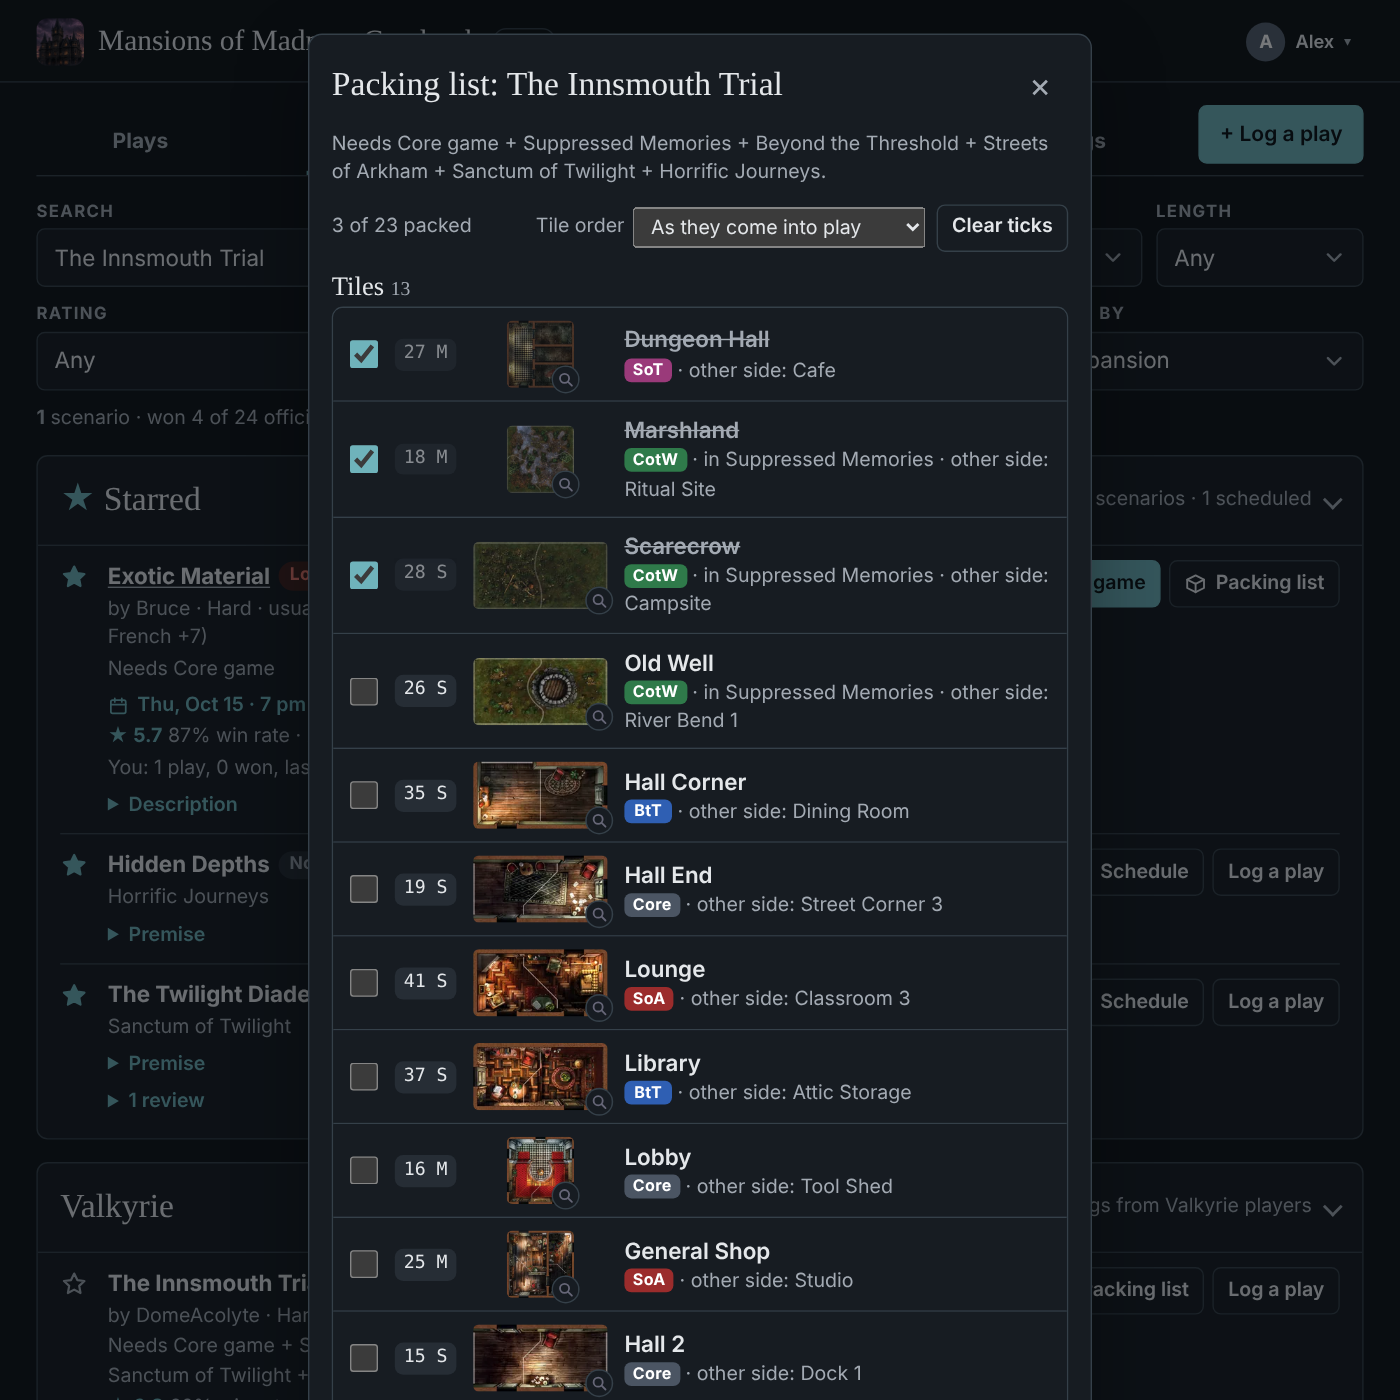
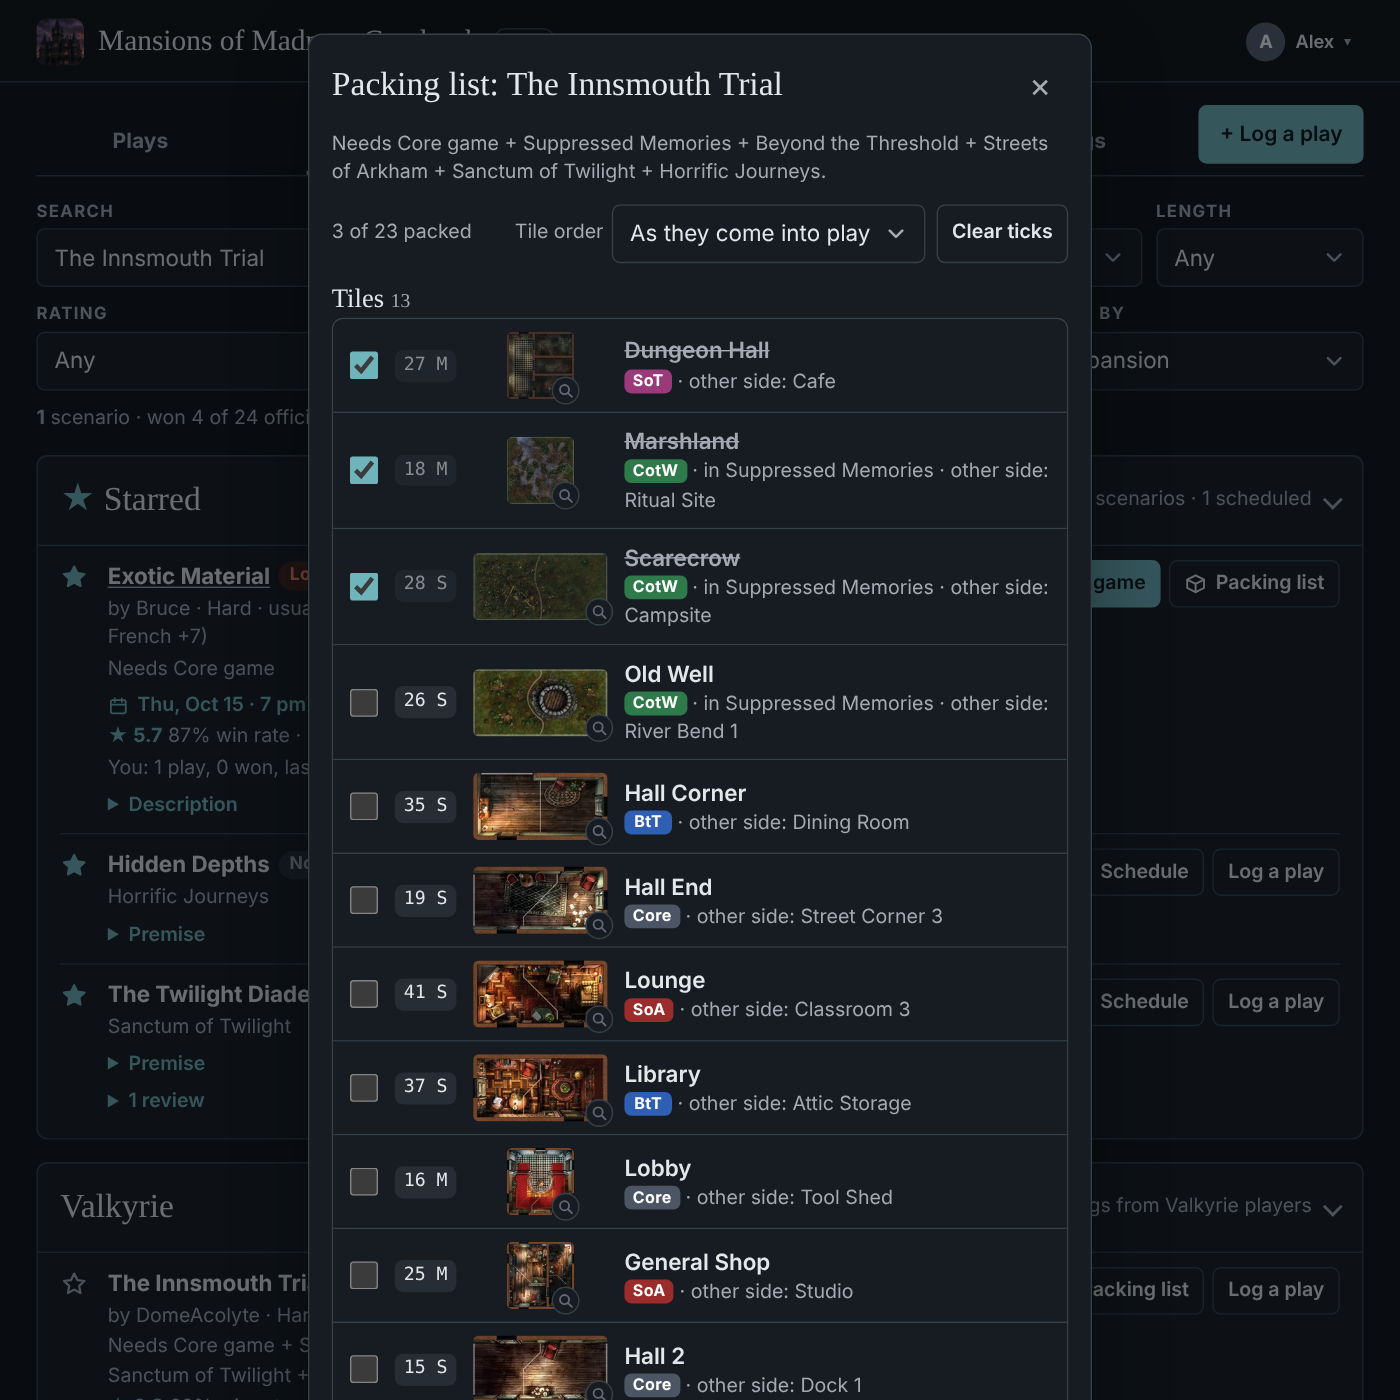
Packing list: Tile order uses the site's own dropdown (v68)
The Tile order choice is now a regular site dropdown (select.f): same box,
chevron and menu as every other dropdown on a computer, and the phone's own
picker on a phone. Clear ticks is the same height beside it. README
screenshots updated; the UI test opens the menu and picks from it.

Claude-Session: https://claude.ai/code/session_019kh66ouXYwNDK6aTZ456xr

diff --git a/js/app.js b/js/app.js
@@ -411,7 +411,7 @@ function packDialog(id){
     '<p class="note">'+t('Needs {boxes}.',{boxes:p.need.map(function(b){return esc(boxName(b));}).join(' + ')+(p.other?' + '+t('fan-made pack {name}',{name:esc(p.other.join(', '))}):'')})+
     (miss.length?' <span class="missing">'+t('Not ticked in your collection: {boxes}.',{boxes:esc(miss.map(boxName).join(', '))})+'</span>':'')+'</p>'+
     '<div class="row pk-bar"><span class="note pk-count"></span>'+
-      (numbered?'<label class="pk-order"><span class="note">'+t('Tile order')+'</span><select data-pk="order"><option value="play"'+(mode==='play'?' selected':'')+'>'+t('As they come into play')+'</option><option value="num"'+(mode==='num'?' selected':'')+'>'+t('By tile number')+'</option></select></label>':'')+
+      (numbered?'<label class="pk-order"><span class="note">'+t('Tile order')+'</span><select class="f" data-pk="order"><option value="play"'+(mode==='play'?' selected':'')+'>'+t('As they come into play')+'</option><option value="num"'+(mode==='num'?' selected':'')+'>'+t('By tile number')+'</option></select></label>':'')+
       '<button class="btn sm ghost" type="button" data-pk="clear">'+t('Clear ticks')+'</button></div>'+
     '<div class="pk-tiles">'+tileLists()+'</div>'+
     (mons.length?'<h3 class="pk-h">'+t('Monster figures')+' <span class="note">'+mons.length+'</span></h3><ul class="pk-list">'+mons.join('')+'</ul>':'')+

diff --git a/test/ui.test.js b/test/ui.test.js
@@ -177,7 +177,8 @@ const gviz={status:'ok',table:{cols:rows[0].map(l=>({label:l})),rows:rows.slice(
   await p.locator('.pk input').first().check();await p.locator('.pk input').nth(1).check();
   assert.ok(/^2 of /.test(await p.textContent('.pk-count')),'ticks counted');
   // tile order: by number puts the Tiles Index order (small before medium); ticks survive the switch
-  await p.selectOption('[data-pk=order]','num');
+  await p.click('[data-pk=order]');assert.ok(await p.locator('.dd .dd-opt').count()===2,'tile order uses the site dropdown');
+  await p.locator('.dd .dd-opt').nth(1).click();assert.strictEqual(await p.$eval('[data-pk=order]',s=>s.value),'num','picked from the dropdown');
   const nums=await p.$$eval('.pk-tiles .pk-idx',l=>l.map(x=>x.textContent.replace(/\s+/g,'')));
   const key=x=>{const m=/^(\d+)([SML])$/.exec(x);return m?'SML'.indexOf(m[2])*1000+ +m[1]:9999;};
   assert.deepStrictEqual(nums,[...nums].sort((a,b)=>key(a)-key(b)),'sorted by tile number');

diff --git a/css/app.css b/css/app.css
@@ -453,7 +453,8 @@ select.f.dd-open{border-color:var(--accent);box-shadow:0 0 0 3px color-mix(in sr
 .needs .missing,.missing{color:var(--bad)}
 .pk-bar{justify-content:space-between;align-items:center;flex-wrap:wrap;gap:8px}
 .pk-order{display:flex;align-items:center;gap:6px;margin-left:auto}
-.pk-order select{width:auto;padding:4px 28px 4px 8px;font-size:14px}
+.pk-order select.f{width:auto}
+.pk-bar .btn{min-height:42px}
 .pk-tiles>*+*{margin-top:12px}
 .pk-h{font-size:19px;margin-top:4px}
 .pk-list{list-style:none;margin:0;padding:0;display:flex;flex-direction:column;border:1px solid var(--line);border-radius:8px;overflow:hidden}

diff --git a/js/version.js b/js/version.js
@@ -1,3 +1,3 @@
 /* The one place the version lives. Bump it with every change (see CLAUDE.md): every page's footer and the
    account menu show it, and the offline cache in sw.js is named after it, so a bump also refreshes installed apps. */
-self.APP_VERSION='v67';
+self.APP_VERSION='v68';
